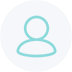
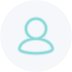
alter resource images

diff --git a/kawa.js b/kawa.js
@@ -17,5 +17,5 @@ const theme_cyan = {
 
 module.exports = {
   AppKey: "J3PDS76SH6JASQHX2QAY5VQ3QINXIYLEMVIREFADB7Z2BHCWC3VA====",
-  Theme: theme_blue,
+  Theme: theme_default,
 }
